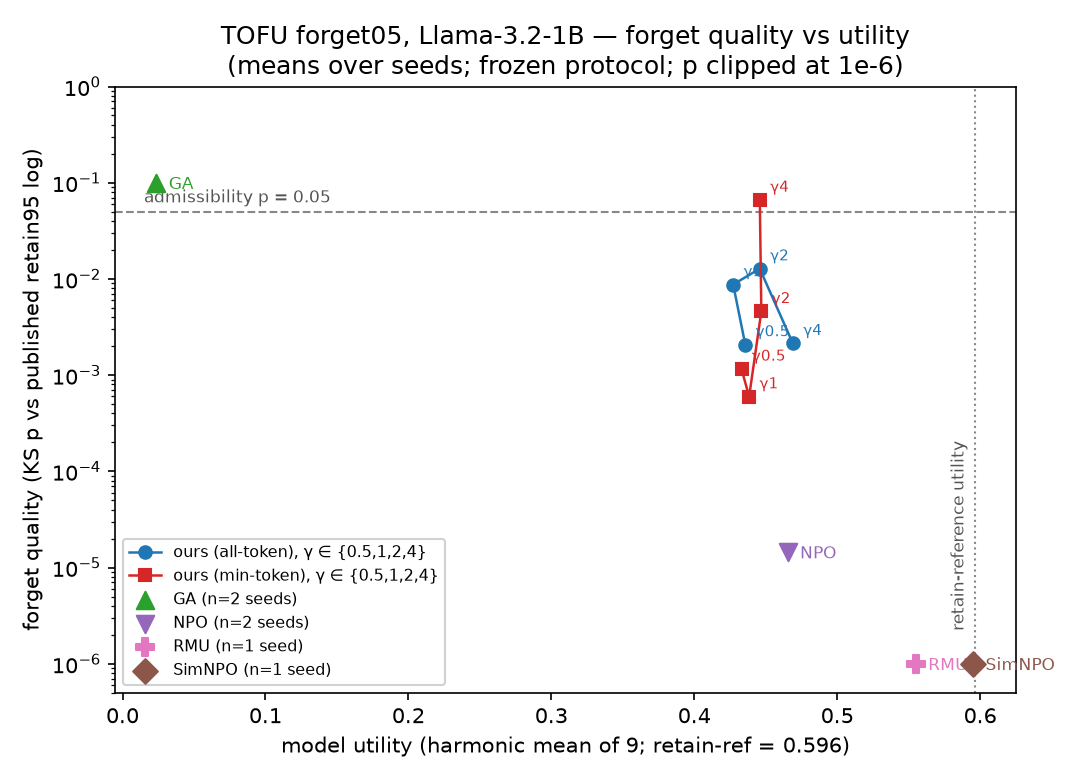
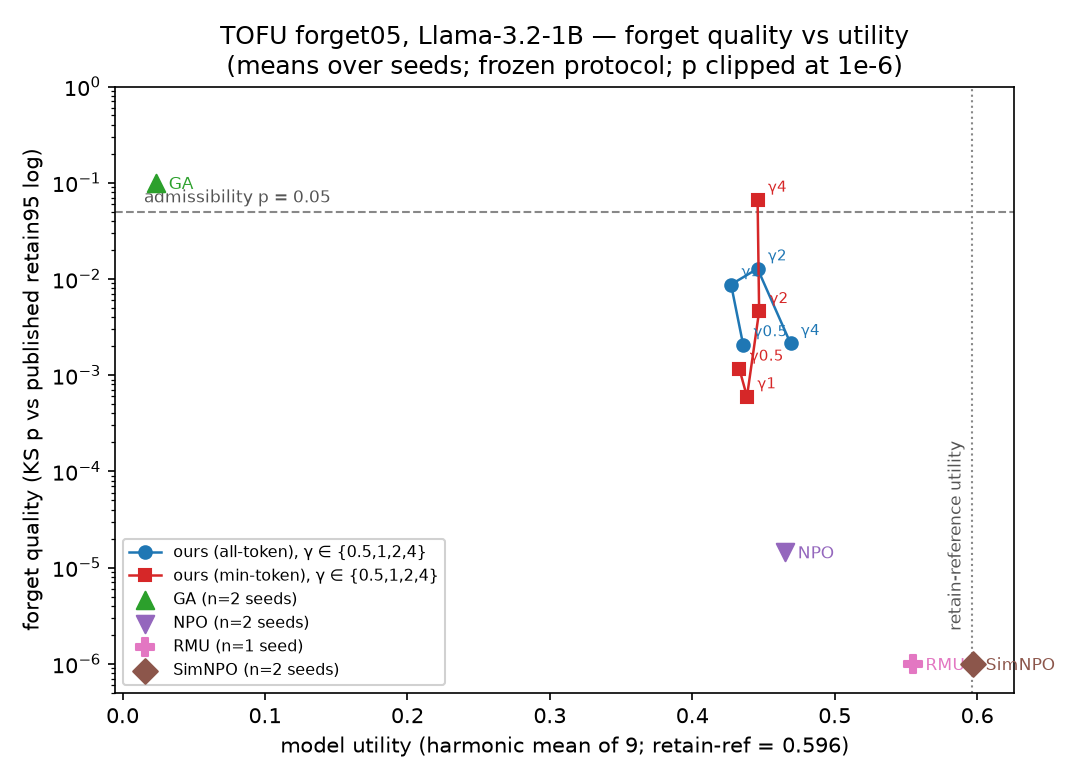
SimNPO s1 replicates s0 (no-op confirmed across seeds)

diff --git a/reports/remote/RESULTS.md b/reports/remote/RESULTS.md
@@ -31,7 +31,7 @@ steps: all-token 100, min-token 450 (per-scope calibration, amendment 3)
 | gradascent | 2 | 0.1001 ± 0.0122 **✓** | 0.1958 ± 0.0113 | 0.0237 ± 0.0104 |
 | npo | 2 | 0.0000 ± 0.0000 | 0.3186 ± 0.0033 | 0.4652 ± 0.0050 |
 | rmu | 1 | 0.0000 ± 0.0000 | 0.4326 ± 0.0000 | 0.5549 ± 0.0000 |
-| simnpo | 1 | 0.0000 ± 0.0000 | 0.7341 ± 0.0000 | 0.5950 ± 0.0000 |
+| simnpo | 2 | 0.0000 ± 0.0000 | 0.7371 ± 0.0030 | 0.5972 ± 0.0022 |
 
 ## Notes
 
